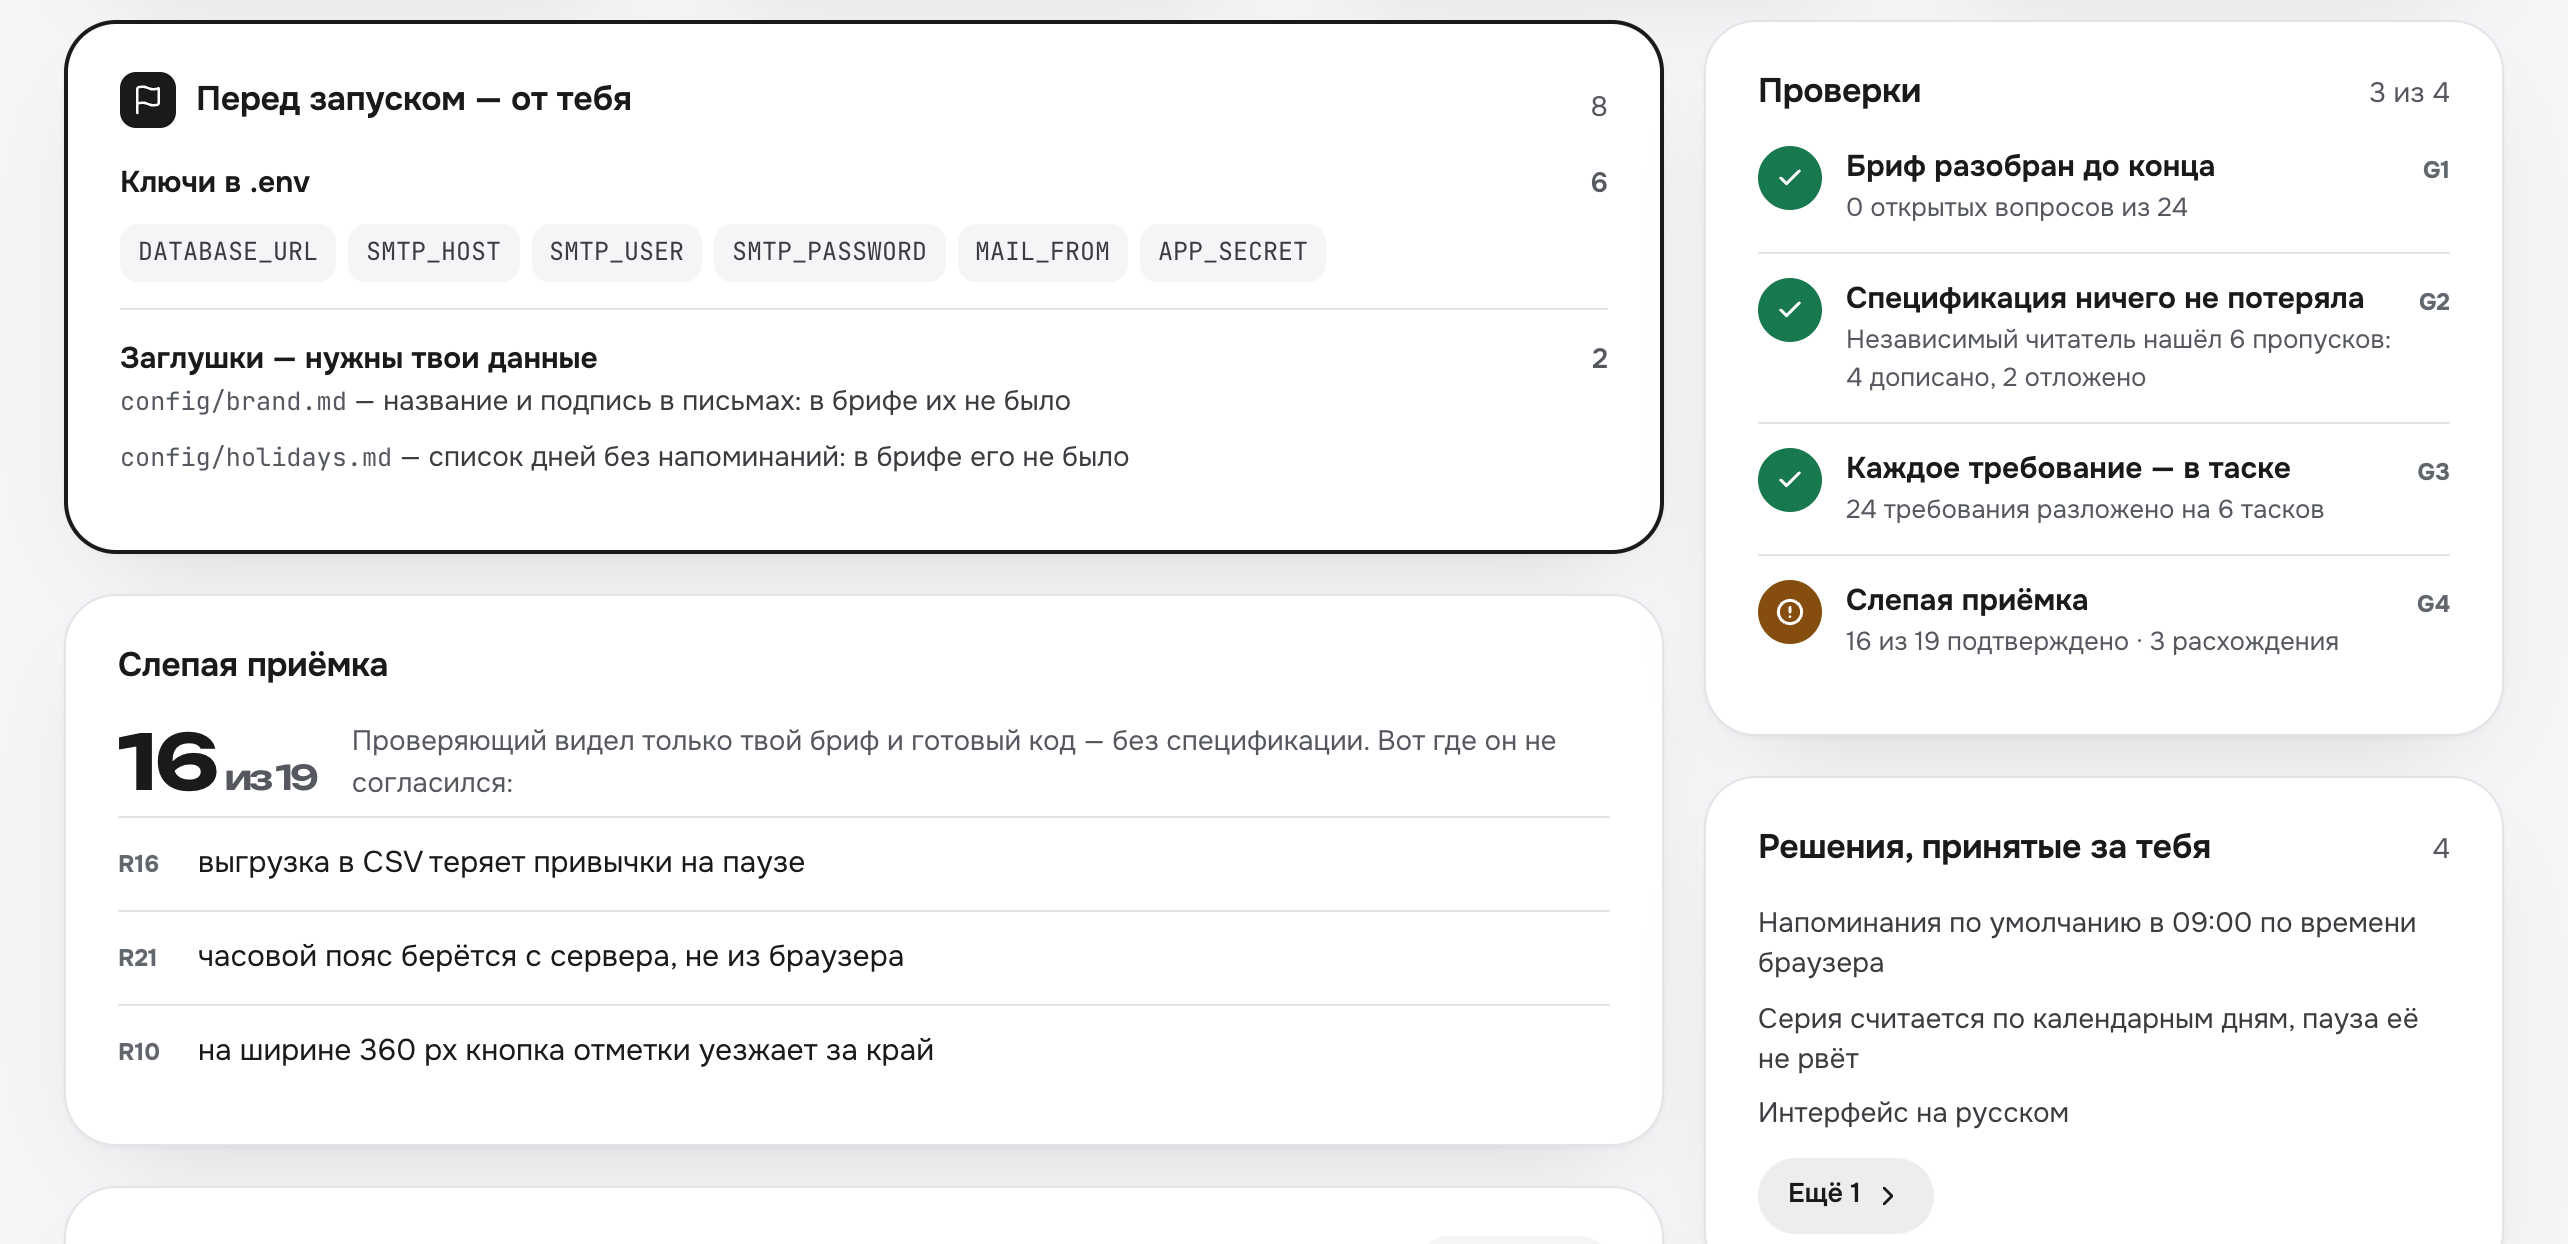
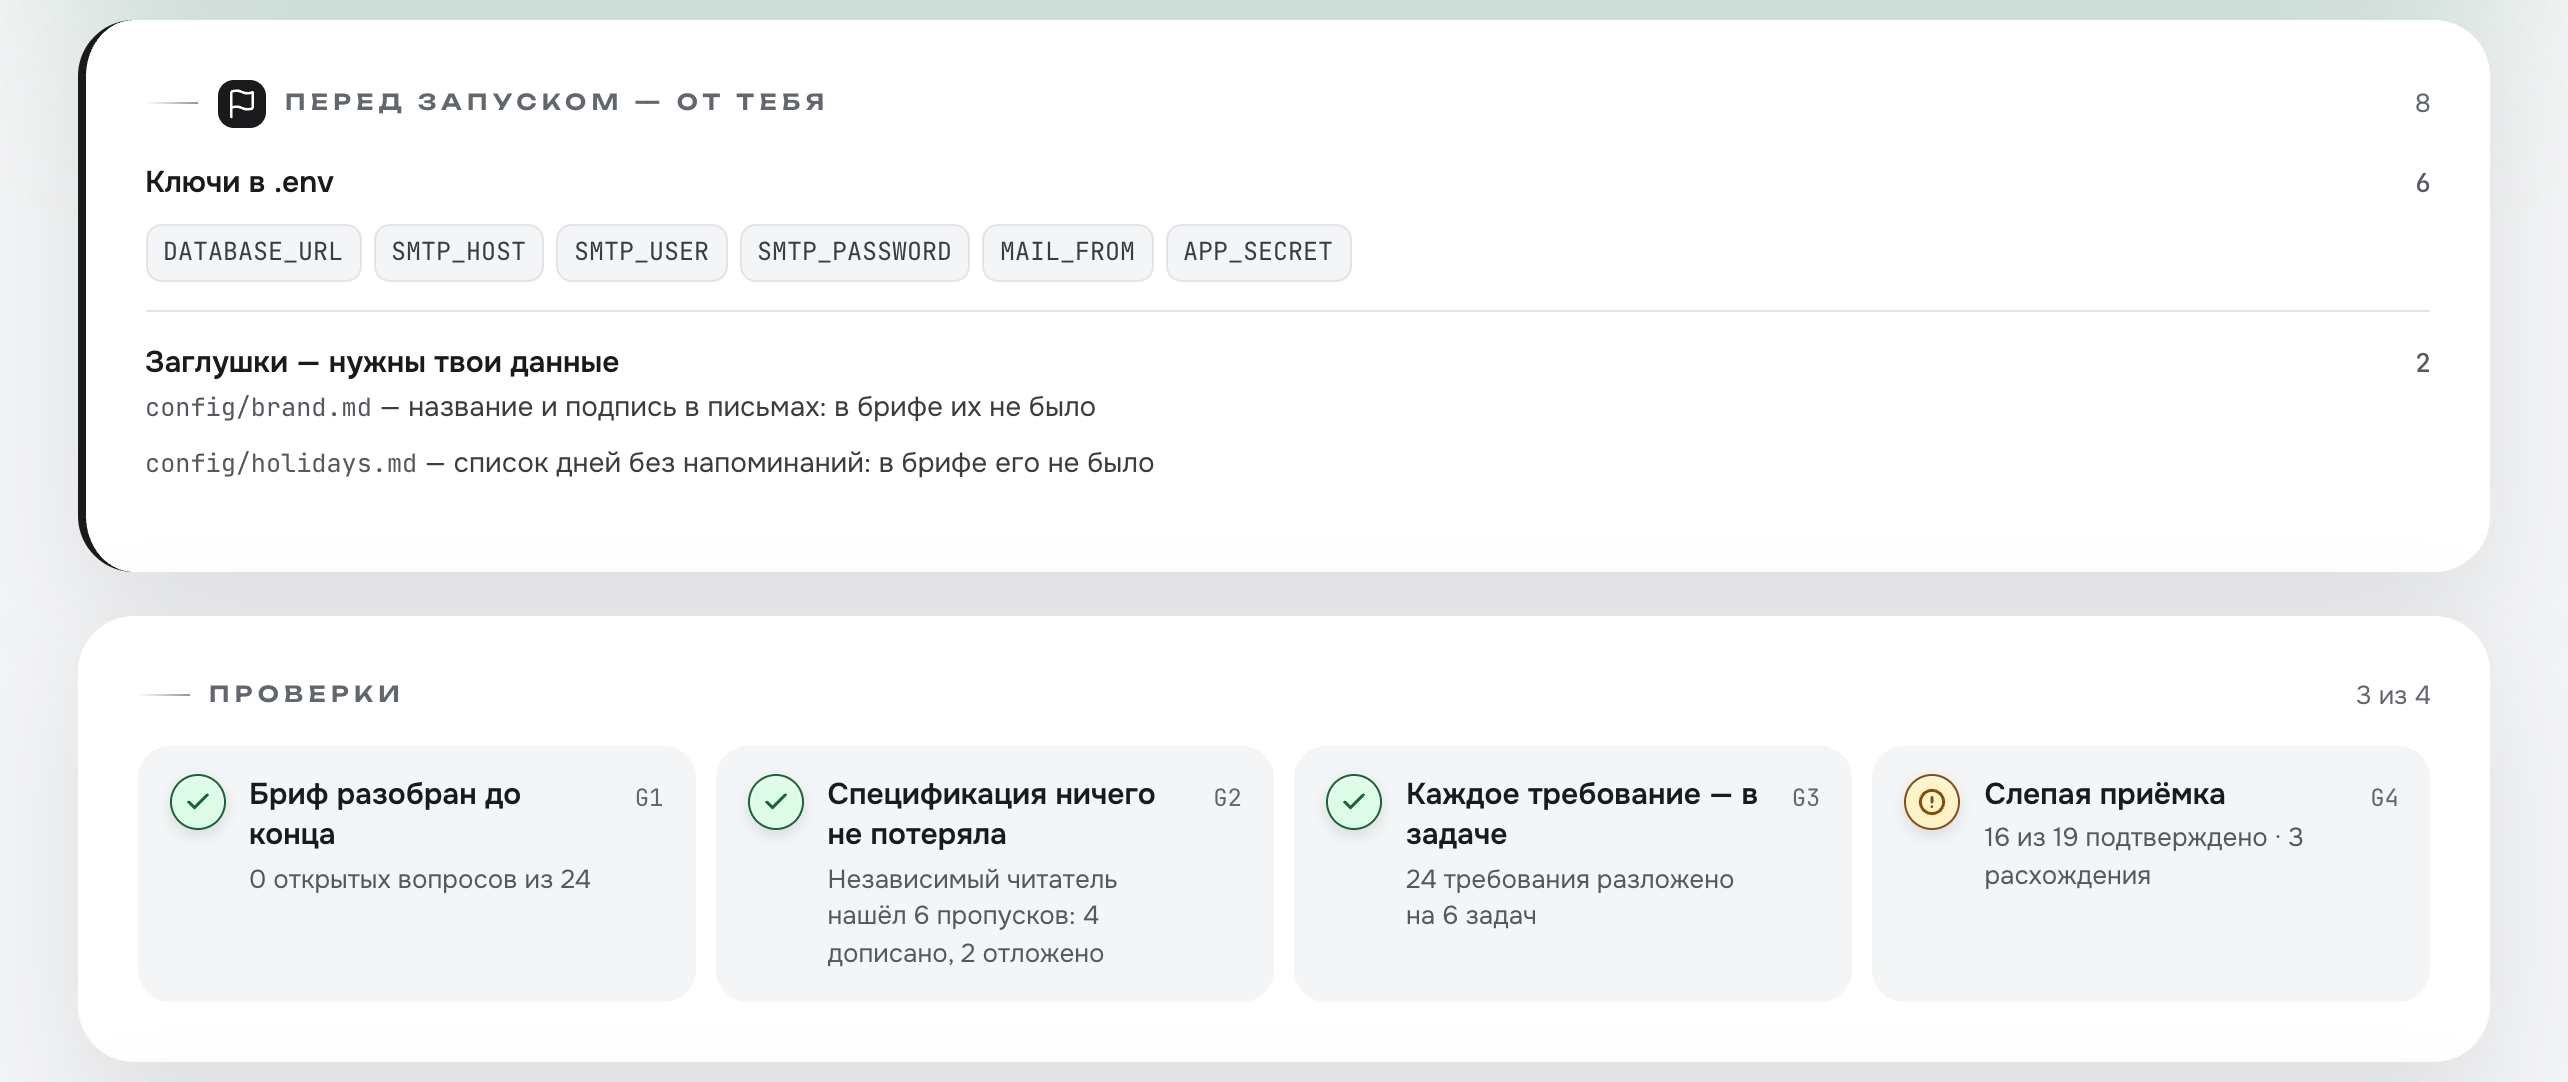
AISpa 1.0: картинки README и логотипы по финальной панели, подписи блоков

diff --git a/README.ru.md b/README.ru.md
@@ -23,7 +23,7 @@ AISpa построена на Autopilot 2.2.0 (Nick Vels, MIT).
 <p align="center">
   <a href="assets/ru/aispa-dashboard.png"><img src="assets/ru/dash-now.png" width="380" alt="Шапка: что происходит сейчас, сколько осталось, восемь этапов"></a>
   <a href="assets/ru/aispa-dashboard.png"><img src="assets/ru/dash-tasks.png" width="380" alt="Задачи по волнам: у каждой задачи цветная полоса состояния и шаги"></a>
-  <a href="assets/ru/aispa-dashboard.png"><img src="assets/ru/dash-done.png" width="380" alt="Сданная сборка: ключи и заглушки от тебя, слепая приёмка, проверки"></a>
+  <a href="assets/ru/aispa-dashboard.png"><img src="assets/ru/dash-done.png" width="380" alt="Сданная сборка: ключи и заглушки от тебя, четыре проверки со слепой приёмкой"></a>
 </p>
 
 <p align="center"><sub>Шапка · ход сборки · отчёт сданной сборки — <a href="assets/ru/aispa-dashboard.png">открыть дашборд целиком</a></sub></p>
@@ -228,11 +228,11 @@ AISpa первым делом разбирает ваш текст на **про
 
 **Задачи по волнам — у каждого состояния свой цвет.** Каждая задача — карточка с цветной полосой слева: зелёная — сдана, синяя — пишется, бирюзовая — на проверке, янтарная — вернулась с ревью в ремонт, красная — не собралась, серая — ждёт своей очереди. Под названием — какие требования она закрывает, справа — состояние и время, ниже — шаги «пишется → проверка → ремонт → сдана». Почему задача на проверке или в ремонте, написано тут же; раскрыв «Требования и подробности задачи», видно требования вашими словами, зону, зависимости, тесты и коммит. У каждой волны — сколько задач сдано и полоска прогресса: видно, что идёт параллельно и чего ждёт следующая волна.
 
-**Твои слова.** Каждое требование из брифа — вашей цитатой и с тем, что с ним стало: сделано, в работе, нужны ваши данные, отложено, снято вами. У отложенного и заглушки — причина. Это главное обещание AISpa — ничего не пропадёт тихо, — и здесь его можно проверить глазами.
+**Требования.** Каждое требование из брифа — вашей цитатой и с тем, что с ним стало: сделано, в работе, нужны ваши данные, отложено, снято вами. У отложенного и заглушки — причина. Это главное обещание AISpa — ничего не пропадёт тихо, — и здесь его можно проверить глазами.
 
 <p align="center">
   <img src="assets/ru/dash-waiting.png" width="380" alt="Сборка ждёт тебя: вопросы в чате, часы сборки стоят">
-  <img src="assets/ru/dash-words.png" width="380" alt="Твои слова: каждое требование цитатой из брифа и его статус">
+  <img src="assets/ru/dash-words.png" width="380" alt="Требования: каждое требование цитатой из брифа и его статус">
 </p>
 
 

diff --git a/README.md b/README.md
@@ -22,8 +22,8 @@ AISpa is built on Autopilot 2.2.0 (Nick Vels, MIT).
 
 <p align="center">
   <a href="assets/aispa-dashboard.png"><img src="assets/dash-now.png" width="380" alt="The header: what is happening now, how much is left, the eight stages"></a>
-  <a href="assets/aispa-dashboard.png"><img src="assets/dash-tasks.png" width="380" alt="Build progress: every task as a coloured bar, grouped into waves"></a>
-  <a href="assets/aispa-dashboard.png"><img src="assets/dash-done.png" width="380" alt="A finished build: keys and placeholders needed from you, blind acceptance, checks"></a>
+  <a href="assets/aispa-dashboard.png"><img src="assets/dash-tasks.png" width="380" alt="Tasks by wave: every task with a coloured state bar and its steps"></a>
+  <a href="assets/aispa-dashboard.png"><img src="assets/dash-done.png" width="380" alt="A finished build: keys and placeholders needed from you, the four checks including blind acceptance"></a>
 </p>
 
 <p align="center"><sub>Header · build progress · the report of a finished build — <a href="assets/aispa-dashboard.png">open the full dashboard</a></sub></p>
@@ -226,13 +226,13 @@ At deep depth one requirement from the brief unfolds into several worked-out sce
 
 **The header — what's happening, in one sentence.** Blue: the build is running — "2 of 6 tickets done, 3 more in progress", which tickets are being written, which are in review, and how long until done including review and acceptance. Orange: **the build is waiting for you** — briefing questions, your "ok" on the spec in manual mode, a decision before an irreversible step; the browser tab says "● Waiting for you", and the build clock is stopped meanwhile. Green: done — what you now have and what you need to do to run it for real. Under the sentence — eight stages from preflight to acceptance: passed, current, skipped.
 
-**Build progress — every state has its own colour.** Green — task done, striped orange — being written, teal — in review, purple — back from review for repair, red — failed, dashed — waiting its turn. Under a repair or review bar it says why. Tasks are grouped into waves: you can see what runs in parallel and what the next wave is waiting for.
+**Tasks by wave — every state has its own colour.** Each task is a card with a coloured stripe on the left: green — done, blue — being written, teal — in review, amber — back from review for repair, red — failed, grey — waiting its turn. Under the title — which requirements it covers, on the right — its state and time, below — the steps "writing → review → repair → done". Why a task is in review or repair is written right there; open "Requirements and task details" to see the requirements in your words, the zone, dependencies, tests and the commit. Each wave shows how many tasks are done and a progress bar: you can see what runs in parallel and what the next wave is waiting for.
 
-**Your words.** Every requirement from the brief — as your quote, with what became of it: done, in progress, needs your data, deferred, dropped by you. Deferred items and placeholders show the reason. This is AISpa's main promise — nothing disappears quietly — and here you can check it with your own eyes.
+**Requirements.** Every requirement from the brief — as your quote, with what became of it: done, in progress, needs your data, deferred, dropped by you. Deferred items and placeholders show the reason. This is AISpa's main promise — nothing disappears quietly — and here you can check it with your own eyes.
 
 <p align="center">
   <img src="assets/dash-waiting.png" width="380" alt="The build is waiting for you: questions in the chat, the build clock is stopped">
-  <img src="assets/dash-words.png" width="380" alt="Your words: every requirement quoted from the brief, with its status">
+  <img src="assets/dash-words.png" width="380" alt="Requirements: every requirement quoted from the brief, with its status">
 </p>
 
 
